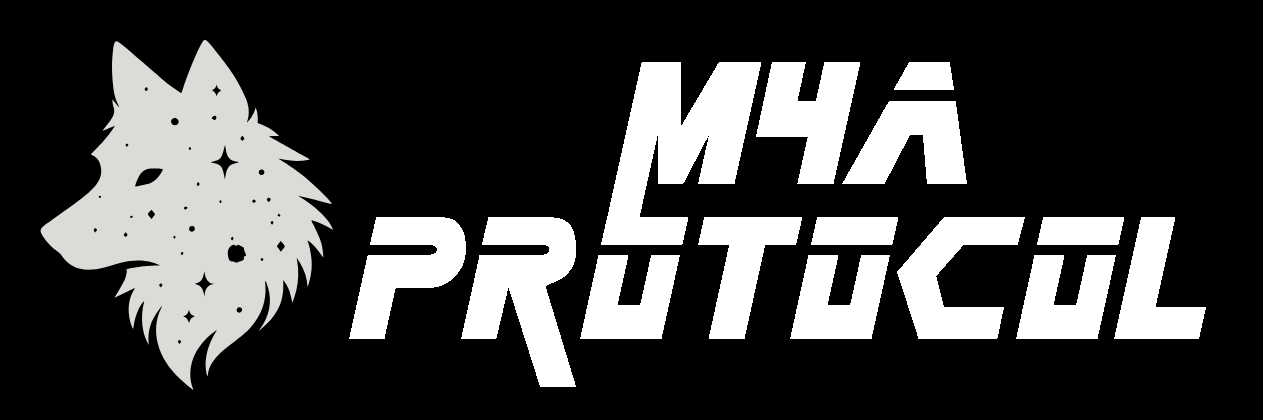
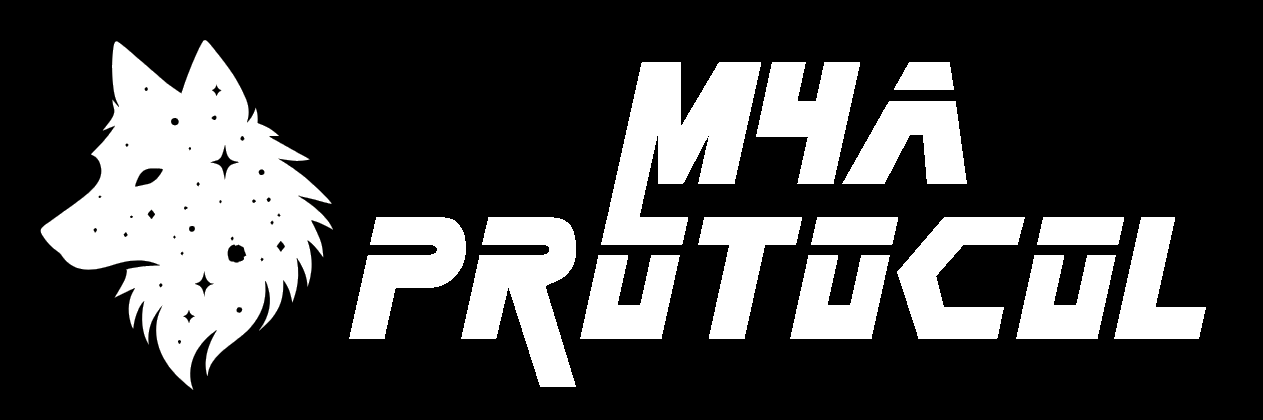
Fixed off white color in banner1.png
Created a twitter account

Changed region(s): [[0.0309, 0.0929, 0.2779, 0.9286]]

diff --git a/src/components/pages/Footer.vue b/src/components/pages/Footer.vue
@@ -83,7 +83,8 @@
 
   function openTwitter()
   {
-    window.open("/Twitter", "_blank")
+    //window.open("/Twitter", "_blank")
+    window.open("https://x.com/M4AProtocol", "_blank")
   }
 
   function openGithub()
